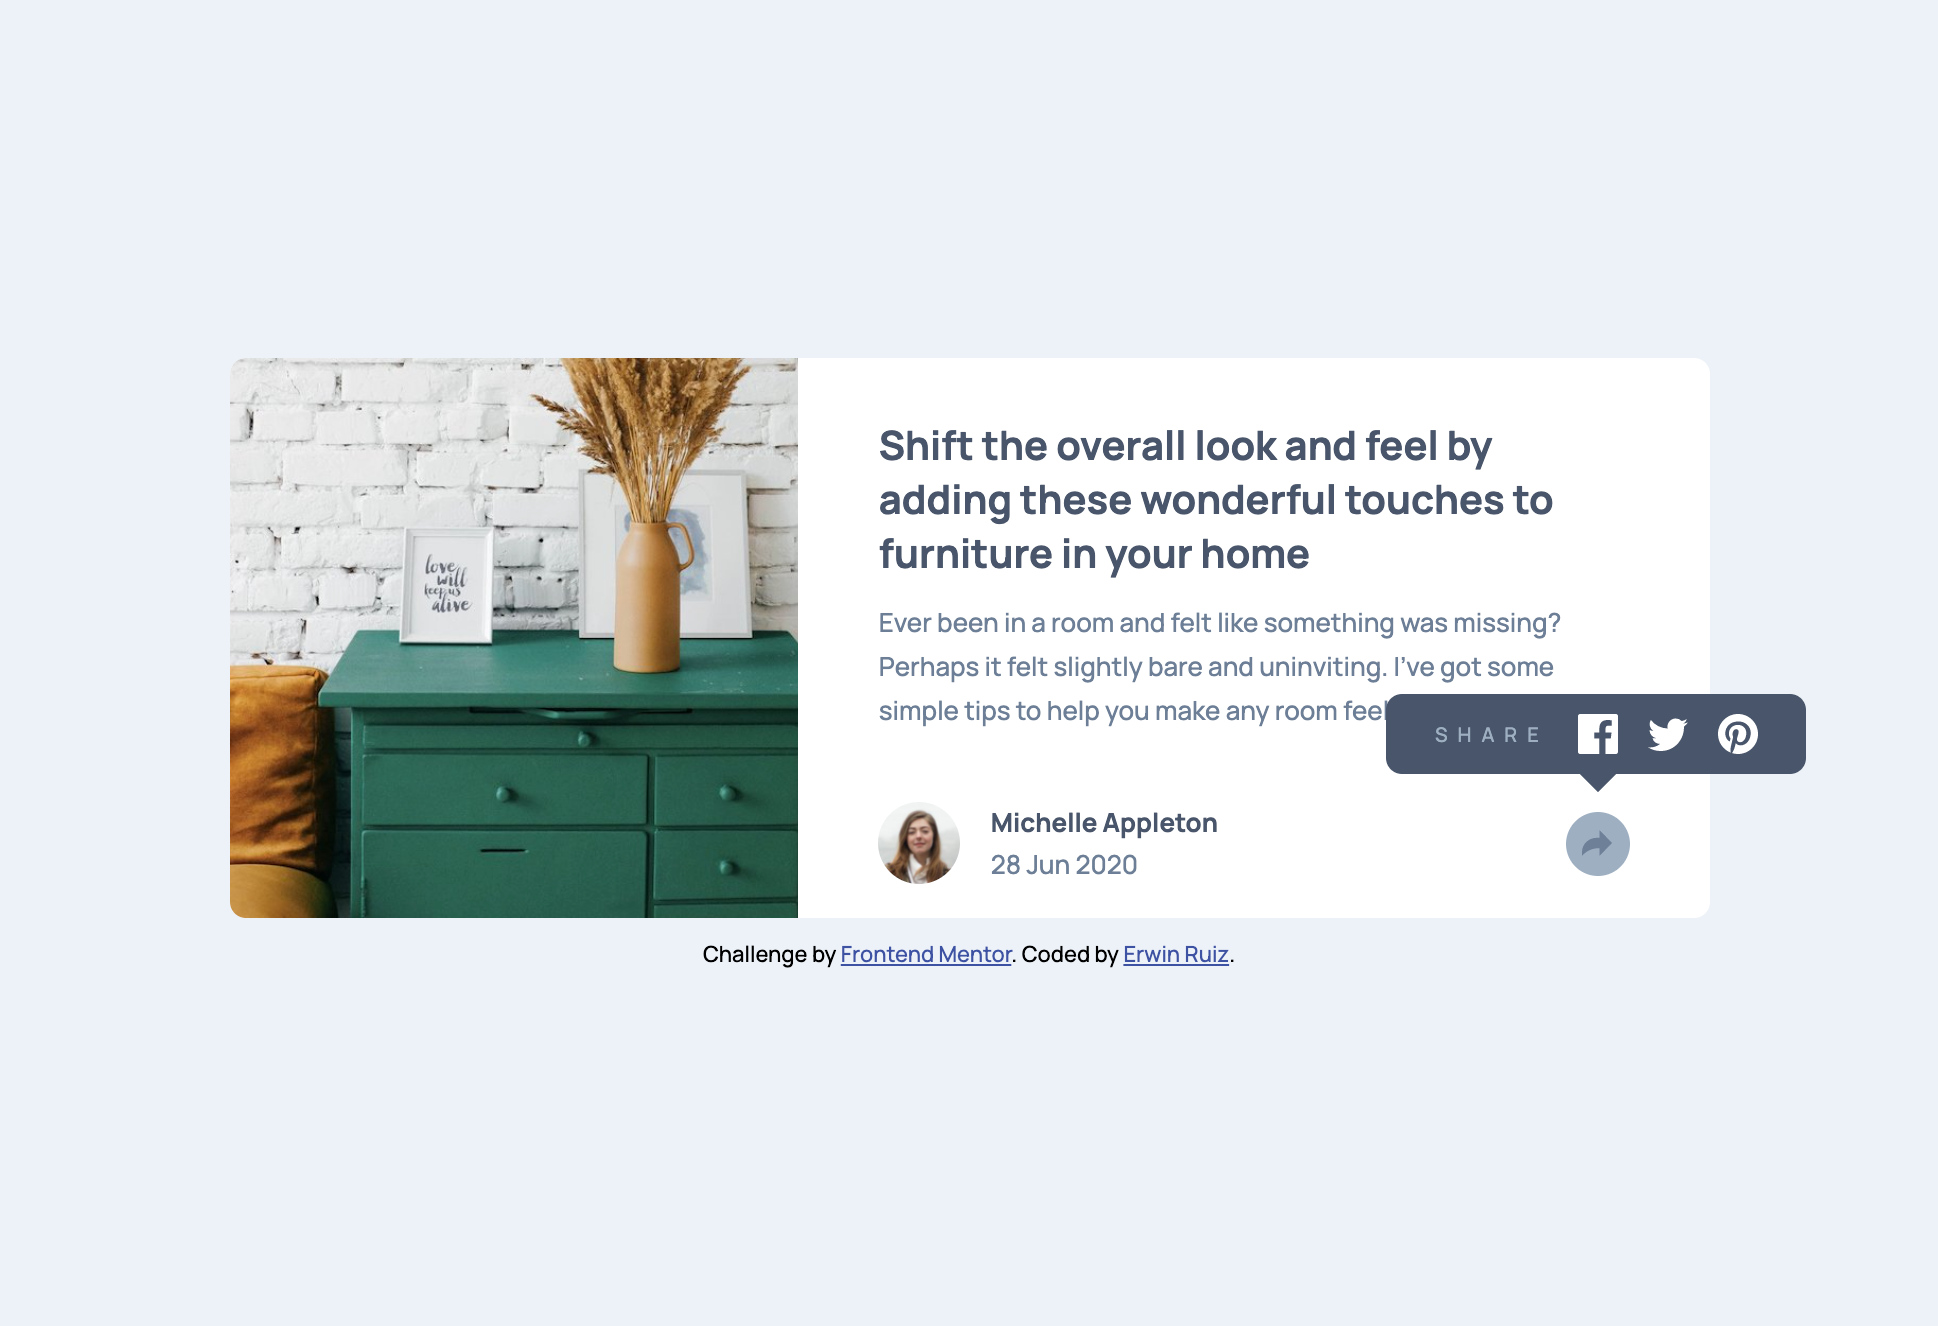
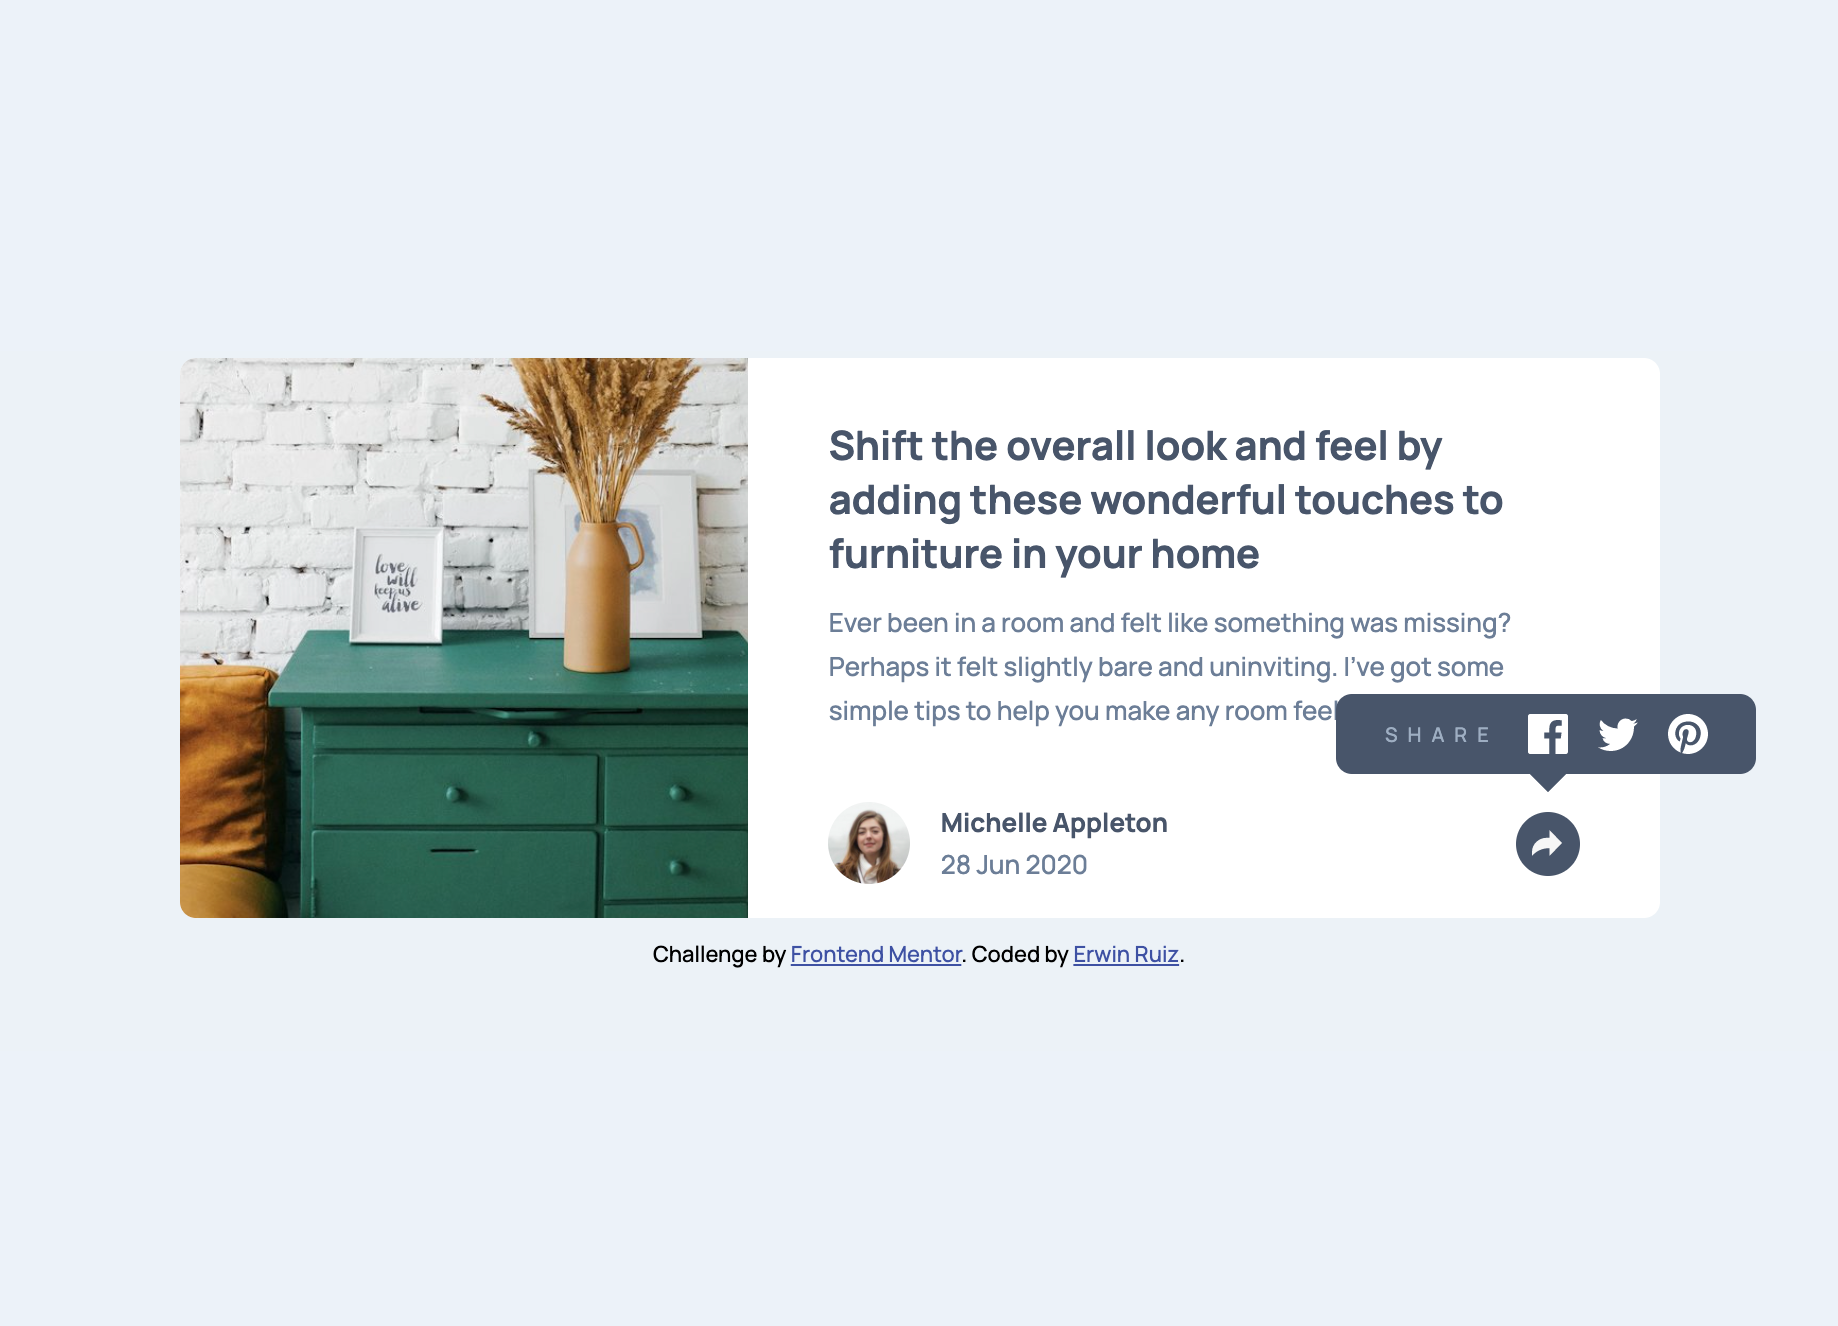
Fix share button active state on desktop design

diff --git a/styles.css b/styles.css
@@ -90,7 +90,11 @@ section .details .share-icon {
 }
 section .details .share-icon:hover {
   cursor: pointer;
-  background-color: var(--grayishBlue);
+  background-color: var(--veryDarkGrayishBlue);
+}
+section .share-icon:hover img {
+  filter: invert(100%) sepia(100%) saturate(0%) hue-rotate(238deg)
+    brightness(154%) contrast(104%);
 }
 section .modal {
   background-color: var(--veryDarkGrayishBlue);
